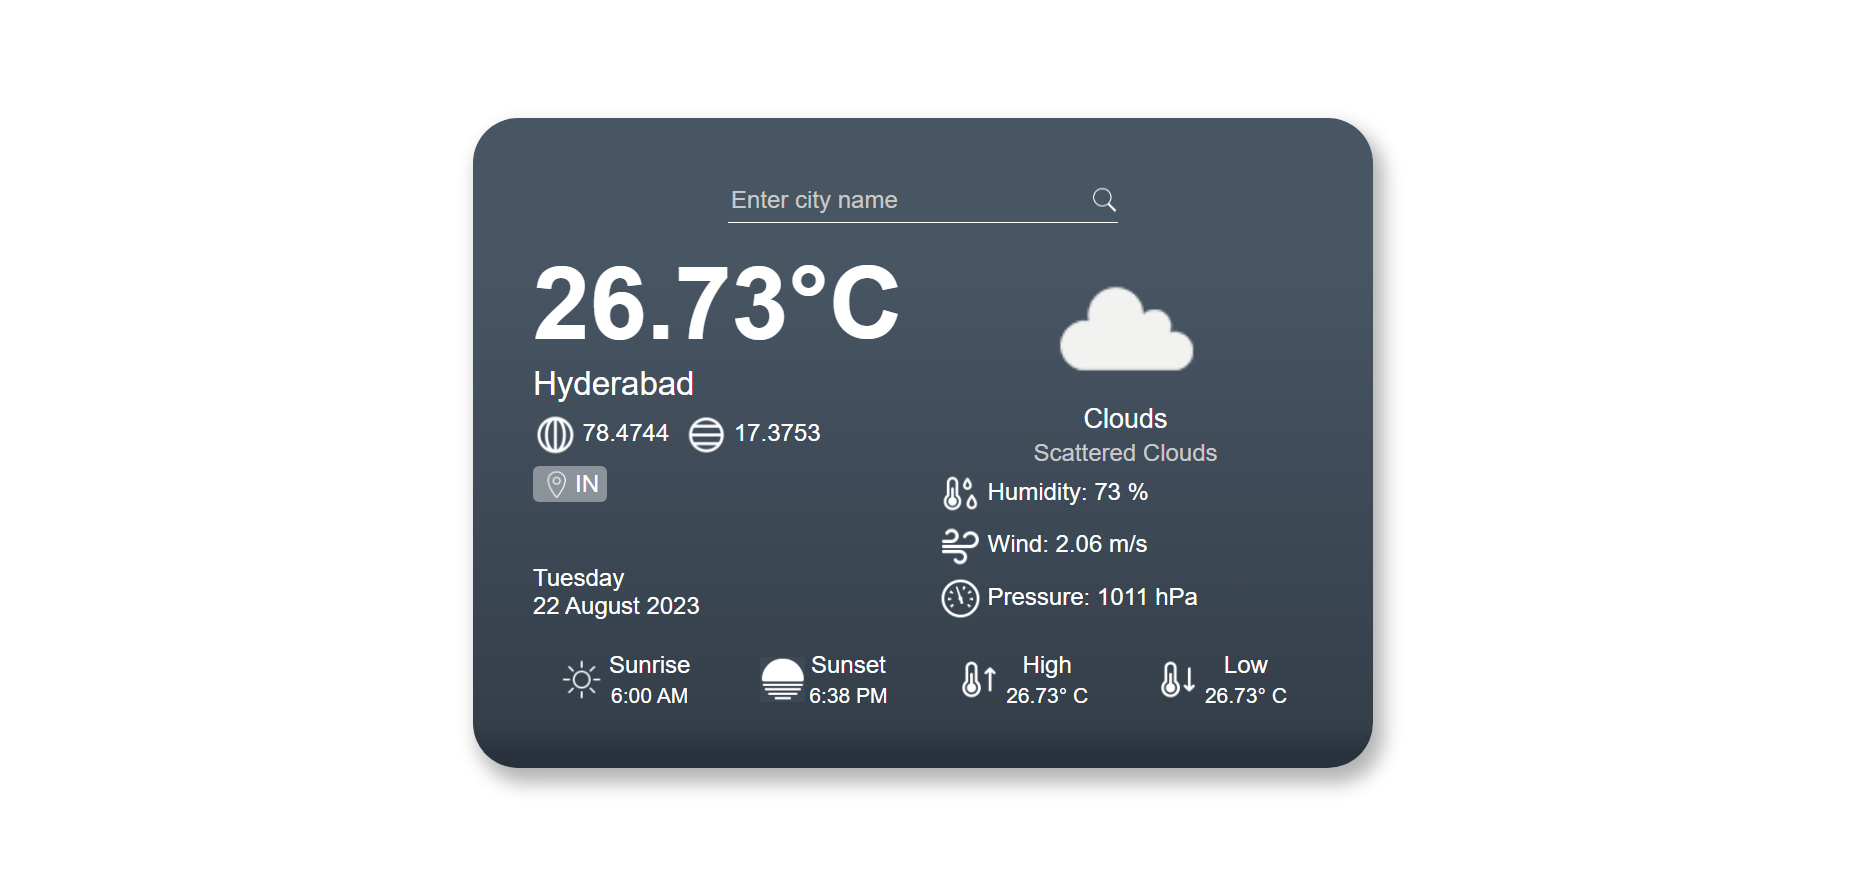
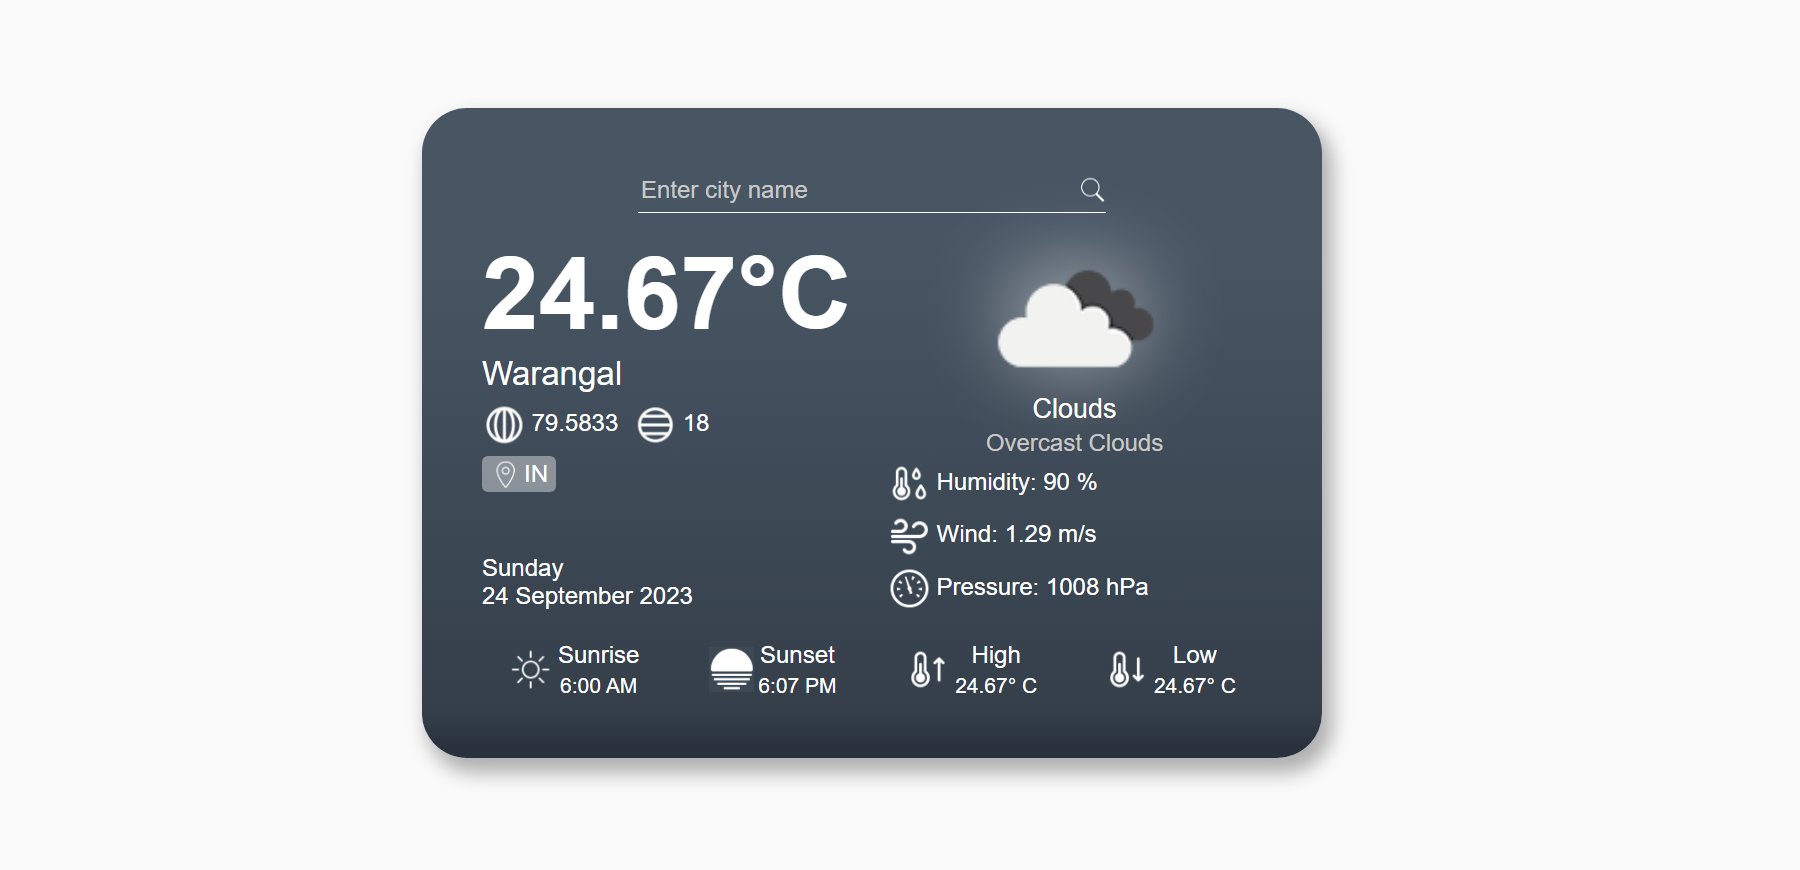
Added latest projects in portfolio section

diff --git a/src/data.ts b/src/data.ts
@@ -4,6 +4,10 @@ import AngularTodoList from "./assets/projects/angular-todo-list.png";
 import AngularWeatherApp from "./assets/projects/angular-weather-app.png";
 import BudgetBuddy from "./assets/projects/budget-buddy.png";
 import LittleLemon from "./assets/projects/little-lemon.png";
+import PortfolioImg from "./assets/projects/portfolio.png";
+import Wakanda from "./assets/projects/wakanda-lander-page.jpg";
+import HeadlinesHub from "./assets/projects/headlines-hub.jpg";
+
 import BuildAThon from "./assets/build-a-thon.png";
 import Rubiks from "./assets/rubiks.png";
 
@@ -89,25 +93,55 @@ export interface IPortfolio {
 }
 export const portfolios: IPortfolio[] = [
   {
-    id: 1,
-    name: "Simple Weather App",
+    id: 7,
+    name: "Headlines Hub. - A Short format News app",
     description:
-      "Simple weather application with minimal & user-friendly UI, built with Angular and OpenWeather API. It allows users to select their desired location and retrieve relevant weather information. The displayed weather forecast includes essential data such as the current temperature, location details, maximum and minimum temperatures, sunrise and sunset times, humidity levels, wind speed, and atmospheric pressure.",
+      "Headlines Hub is a minimal news app that provides users with a seamless news browsing experience. The app features a search functionality that allows users to quickly find news articles on any given topic of interest. Additionally, the app includes a user-friendly navigation menu that provides access to top headlines within specified categories.",
+    url: "https://sahulkola.github.io/headlines-hub/",
+    thumbnail: HeadlinesHub,
+    techstack: ["Angular", "Tailwind", "GNews API"],
+  },
+  {
+    id: 6,
+    name: "Weatherly",
+    description:
+      "Weatherly is a sophisticated weather app with a clean and intuitive interface, designed to provide users with accurate and up-to-date weather information.  The app enables users to access weather forecasts for their location and other locations of interest.",
+    // "Simple weather application with minimal & user-friendly UI, built with Angular and OpenWeather API. It allows users to select their desired location and retrieve relevant weather information. The displayed weather forecast includes essential data such as the current temperature, location details, maximum and minimum temperatures, sunrise and sunset times, humidity levels, wind speed, and atmospheric pressure.",
     url: "https://sahulkola.github.io/angular-weather-app/",
     thumbnail: AngularWeatherApp,
-    techstack: ["Angular", "TypeScript", "OpenWeather API"],
+    techstack: ["Angular", "SASS", "OpenWeather API"],
   },
   {
-    id: 2,
-    name: "Angular Todo List",
+    id: 6,
+    name: "Wakanda - HR Lander Page",
     description:
-      "This is an Angular-based application called Simple Todo List, designed to assist users in organizing and prioritizing their daily tasks. The application enables users to plan and manage their tasks effectively, ensuring that important tasks receive priority. By using this application, users can streamline their daily workflow and enhance their productivity. ( PS: The primary purpose to build this app is to get a fundamental understanding of Angular's functionality and working. ) ",
+      "Wakanda HR platform - a lander page developed using angular that empowers you to streamline your HR operations effortlessly. With an intuitive interface and minimal animations.",
+    url: "https://sahulkola.github.io/wakanda-lander-page/",
+    thumbnail: Wakanda,
+    techstack: ["Angular", "Tailwind", "AOS.js"],
+  },
+  {
+    id: 5,
+    name: "Task Tracker",
+    description:
+      "A to-do list app that helps users to organize and prioritize their daily tasks.  The application helps users to effectively plan and manage their tasks conveniently identifying important ones through priority marks for easy recognition.",
+    // "This is an Angular-based application called Simple Todo List, designed to assist users in organizing and prioritizing their daily tasks. The application enables users to plan and manage their tasks effectively, ensuring that important tasks receive priority. By using this application, users can streamline their daily workflow and enhance their productivity.",
     url: "https://sahulkola.github.io/angular-todo-list/",
     thumbnail: AngularTodoList,
-    techstack: ["Angular", "TypeScript"],
+    techstack: ["Angular"],
   },
   {
-    id: 3,
+    id: 5,
+    name: "My Portfolio",
+    description:
+      "This project showcases my skills and expertise in frontend development, specifically in creating dynamic and interactive user interfaces. With React's powerful components and React Router DOM's navigation capabilities, I have designed a seamless and user-friendly experience for visitors to explore my work. From responsive layouts to smooth transitions, my portfolio demonstrates my ability to create visually stunning websites that engage and captivate users.",
+    // "This is an Angular-based application called Simple Todo List, designed to assist users in organizing and prioritizing their daily tasks. The application enables users to plan and manage their tasks effectively, ensuring that important tasks receive priority. By using this application, users can streamline their daily workflow and enhance their productivity.",
+    url: "https://sahulkola.vercel.app/",
+    thumbnail: PortfolioImg,
+    techstack: ["React", "React-Router-DOM", "Tailwind", "AOS.js"],
+  },
+  {
+    id: 4,
     name: "Little Lemon Restaurant",
     description:
       "The Little Lemon website is an online platform designed to provide information and services related to the Little Lemon restaurant. It serves as a digital hub where customers can explore various aspects of the restaurant, make reservations, access menus, and stay updated with the latest news and promotions.",
@@ -116,7 +150,7 @@ export const portfolios: IPortfolio[] = [
     techstack: ["React", "React-Router-DOM", "Sass"],
   },
   {
-    id: 4,
+    id: 3,
     name: "JNTUH GPA Calc. - SGPA & CGPA Calculator",
     description:
       "A Web-based application that offers students to do mathematical computations which helps in finding accurate CGPA & SGPA with an interactive and user-friendly Graphical User Interface. It includes features like Target GPA Calculator which generates average SGPA to be scored in upcoming semesters to maintain Target GPA.The GPA score will be recorded in the database and users can track their progress by login.",
@@ -125,7 +159,7 @@ export const portfolios: IPortfolio[] = [
     techstack: ["HTML", "CSS", "Bootstrap", "MYSQL", "Flask"],
   },
   {
-    id: 5,
+    id: 2,
     name: "Budget Buddy - a personal expense Tracker",
     description:
       "This project secured top 10 position in India's Largest Build-A-Thon on Modern Application Development, a 7 Days Training Program on Building Morden Apps & Deploying on VMware Tanzu Application Service followed by 5 weeks Project Build-A-Thon conducted by SmartBridge Educational Services Pvt Ltd in association with VMware IT Academy",
@@ -134,11 +168,11 @@ export const portfolios: IPortfolio[] = [
     techstack: ["HTML", "CSS", "Bootstrap", "AOS.js", "MYSQL", "Flask"],
   },
   {
-    id: 6,
+    id: 1,
     name: "Career Hub",
     description:
       "A Job portal application that connects recruiters and job seekers where recruiters are the source of the resources, and the job seeker can find and apply for their targeted job. Users will have access to the career portal page where current openings are displayed which were uploaded by the recruiter of the company via the admin interface",
-    url: "#",
+    url: "/",
     thumbnail: CareerHub,
     techstack: ["HTML", "CSS", "MYSQL", "PHP"],
   },

diff --git a/src/Pages/Portfolio/BaseLayout.tsx b/src/Pages/Portfolio/BaseLayout.tsx
@@ -25,7 +25,7 @@ const BaseLayout = ({
           />
         </a>
       </div>
-      <section className="flex flex-col items-start justify-between h-auto">
+      <section className="flex flex-col items-start justify-between h-auto sm:h-full">
         <div>
           <h2 className="text-xl self-start mt-5 font-m">{portfolio.name}</h2>
           <p className="text-sm text-white-400 mt-2">{portfolio.description}</p>
